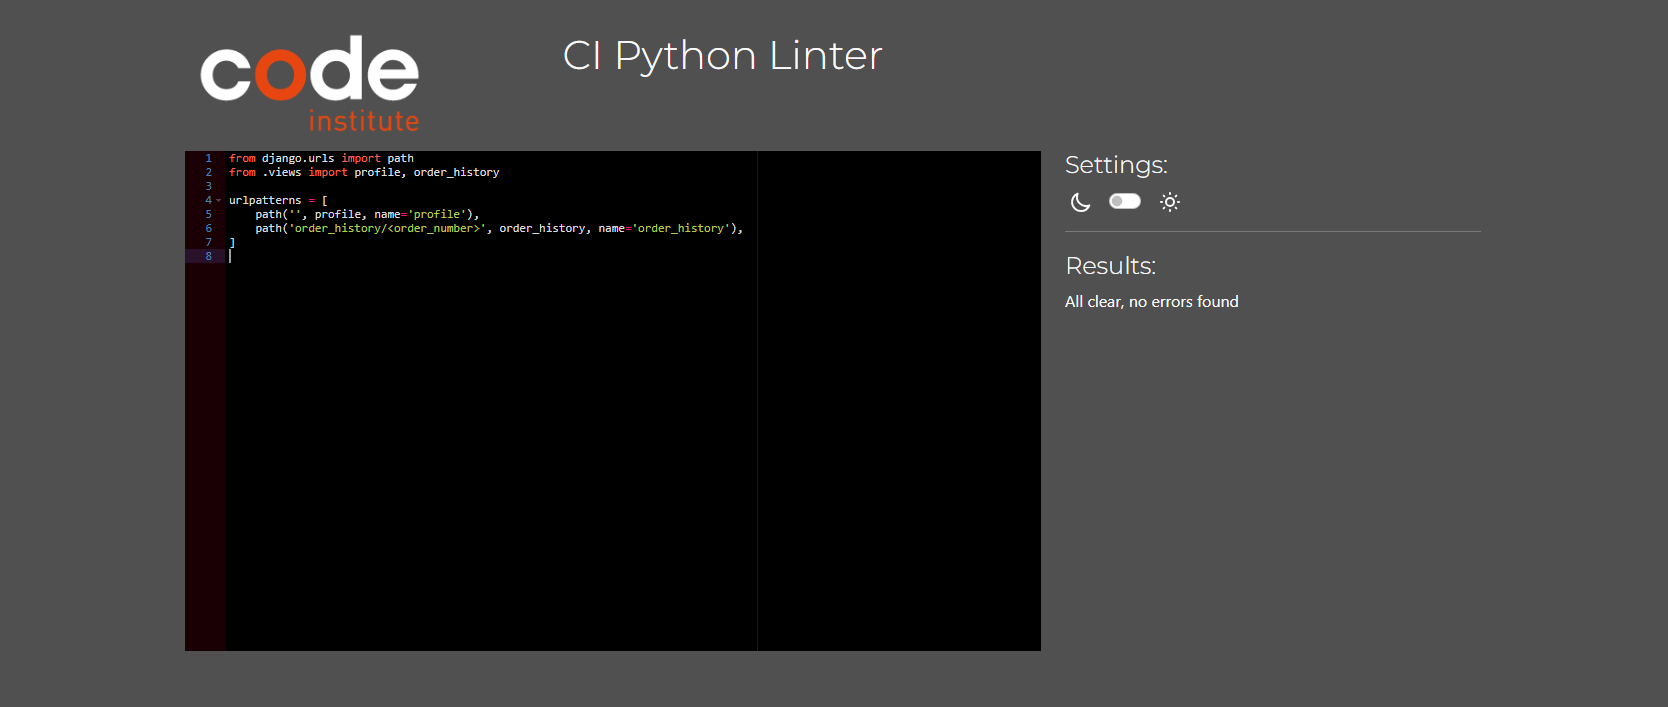
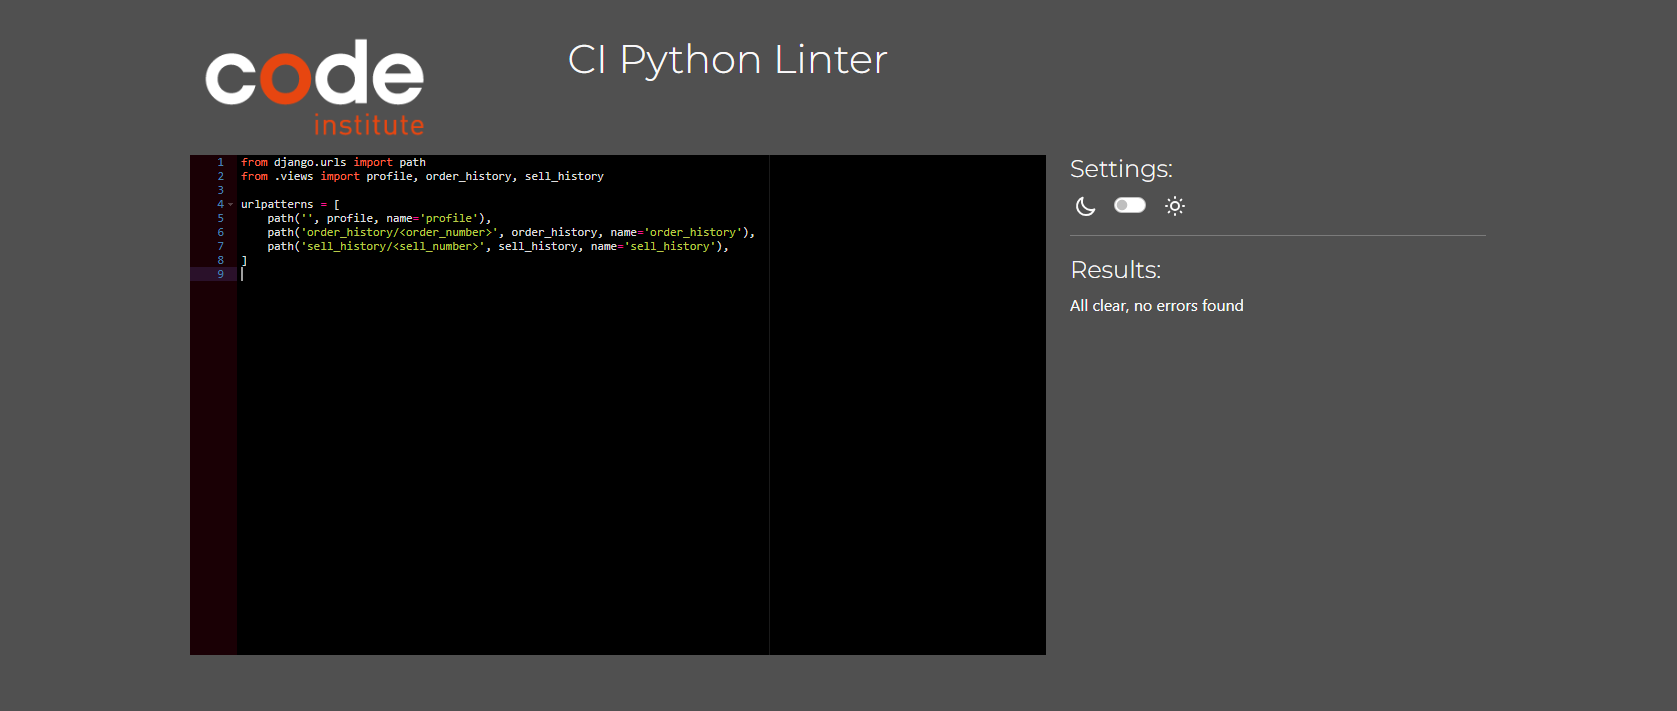
test: document result of validation and testing for sell pages

diff --git a/README_testing.md b/README_testing.md
@@ -42,6 +42,8 @@ All pages were tested in terms of responsivness to ensure that the conent reacts
 | R22 | Hidden Pages         | Extend the url and add /test in the end. Inspect the webpage via DevTools and listed devices. Test the side for responsiveness and look at the layout of the hidden pages                                                       | The content of the Hidden Pages  is readable and fully displayed                                                                                                                                                                                                                                           | PASS   |
 | R23 | About Page         | Go to About in Navigation Menu. Inspect the webpage via DevTools and listed devices. Test the side for responsiveness and look at the layout of text, image, button and review boxes.                                                       | The content of the page is center and displayed in a column on small devices. On large, the picture is shown next to the text. The boxes are in rows.                                                                                                                                                                                                                                           | PASS   |
 | R24 | Add Review Page         | Go to About in Navigation Menu and click on Send Review. Inspect the webpage via DevTools and listed devices. Test the side for responsiveness and look the review form                                                       | The form is centered and readable on all devices.                                                                                                                                                                                                                                           | PASS   |
+| R25 | Sell Toy Page         | Login. Go to Sell Toy in Navigation Menu. Inspect the webpage via DevTools and listed devices. Test the side for responsiveness and look the form                                                       | The form is centered and readable on all devices.                                                                                                                                                                                                                                           | PASS   |
+| R26 | Sell History - Statu Page         | Login. Go to My Profile. Click on an item in selling history.  Inspect the webpage via DevTools and listed devices. Test the side for responsiveness and look the image and text                                                      | On small devices, the content is centered in a column. On large devices, the text and image are displayed next to each other.                                                                                                                                                                                                                                          | PASS   |
 
 
 [Back to the content](#testing--validation)
@@ -81,8 +83,8 @@ The testing was grouped according to the epics to which user story belongs.
 | #17                            | Site User     | Have a personalized user profile                                   | View and update my personal information                                                                           | there is  a page with personal detail which I can update<br>only authorized user can view and update the personal information                                                                                                                                         | PASS   |
 | #24                            | Shopper       | have the possibility to save my delivery information when checkout | do not have to fill the information several times                                                                 | there is a check-box to save the information on the checkout page<br>there is a logic which works                                                                                                                                                                     | PASS   |
 | Sorting and Searching          |               |                                                                    |                                                                                                                   |                                                                                                                                                                                                                                                                       |
-| 10                             | Shopper       | Sort the list of available toys                                    | Easily identify the best priced toys, toys in the best quality and alphabetically sorted toys                     | the item in navigation menu works properly: by price, by quality, by category, by name                                                                                                                                                                                | PASS   |
-| 11                             | Shopper       | Sort a specific and multiple category of products                  | Find the best priced or best quality product in a specific category or sort the products in that category by name | there is dropdown to sort the toys accordingly<br>the fully functional logic has been created                                                                                                                                                                         | PASS   |
+| #18                             | Shopper       | Sort the list of available toys                                    | Easily identify the best priced toys, toys in the best quality and alphabetically sorted toys                     | the item in navigation menu works properly: by price, by quality, by category, by name                                                                                                                                                                                | NOT IMPLEMENTED - in a next iteration   |
+| #19                             | Shopper       | Sort a specific and multiple category of products                  | Find the best priced or best quality product in a specific category or sort the products in that category by name | there is dropdown to sort the toys accordingly<br>the fully functional logic has been created                                                                                                                                                                         | NOT IMPLEMENTED - in a next iteration   |
 | #20                            | Shopper       | Filter for specific toys categories                                | find easily what I search for                                                                                     |  there are toys categories in navigation menu<br> the fully functional logic has been created<br> toy categories are displayed in the search bar                                                                                                                      | PASS   |
 | #21                            | Shopper       | search for a product by name or description                        | find a specific product I would like to purchase                                                                  | there is a fully functional search input field<br>there is information on what have been searched/filtered for and number of results                                                                                                                                  | PASS   |
 | Purchasing and Checkout        |               |                                                                    |                                                                                                                   |
@@ -94,9 +96,10 @@ The testing was grouped according to the epics to which user story belongs.
 | #29                            | Shopper       | View shopping history                                              | see what I have purchase so far                                                                                   | in personal profile there is shopping history overview<br>each order can be view in details<br>users can access only their order history                                                                                                                              | PASS   |
 | #28                            | Shopper       | Receive an email confirmation after checking out                   | Keep the confirmation of what I have purchased for my records                                                     | shopper gets confirmation email                                                                                                                                                                                                                                       | PASS   |
 | Selling                        |               |                                                                    |                                                                                                                   |                                                                                                                                                                                                                                                                       |        |
-| 21                             | Seller        | provide all information abou toys                                  | easily sell toys                                                                                                  | there is a page with the  form to sell a toy<br>the page includes instructions as well                                                                                                                                                                                | PASS   |
-|                                | Seller        | request money                                                      | get money from the sold toy                                                                                       |                                                                                                                                                                                                                                                                       | PASS   |
-| 22                             | Seller        | have all the sell in my user profile                               | view sell history and the status of each sell                                                                     | there is a sell history in the profile<br>each sell can be viewed additionally                                                                                                                                                                                        | PASS   |
+| #30                            | Seller        | provide all information abou toys                                  | easily sell toys                                                                                                  | there is a page with the  form to sell a toy<br>the page includes instructions as well                                                                                                                                                                                | PASS   |
+| #32                               | Seller        | request money                                                      | get money from the sold toy                                                                                       | there is a button to request money if the toy is sold
+ <br>after request an confirmation is shown                                                                                                                                                                                                                                                                      | PASS - the request is done via email with the prefilled email and toy number   |
+| #31                             | Seller        | have all the sell in my user profile                               | view sell history and the status of each sell                                                                     | there is a sell history in the profile<br>each sell can be viewed additionally                                                                                                                                                                                        | PASS   |
 | Admin and Store Management     |               |                                                                    |                                                                                                                   |
 | #33                            | Store Owner   | add a toy                                                          | add new items to my store                                                                                         |  the app products/toys is setup<br> there is a page with form to add a new toy<br> the page is visible only for store owner                                                                                                                                           | PASS   |
 | #34                            | Store Owner   | edit/update toy details                                            | change toy prices, descriptions, images and other product criteria, including toy status                          | there is a page with the form to edit existing toys<br>there is a field to change the status - visible only for store owner<br>there is a link for each to to edit the information<br>the page can access only Site Owner                                             | PASS   |
@@ -109,7 +112,7 @@ The testing was grouped according to the epics to which user story belongs.
 | #37                            | Store Owner   | implement some SEO techniques                                      | increase the chance to purchase on my e-shop                                                                      | meta tags are fill out<br>sitemap is created<br>robots.txt is created                                                                                                                                                                                                 | PASS   |
 | #38                            | Site User     | see favicon in the browser tab                                     | easily find the e-shop                                                                                            | favicon is created<br>favicon is included                                                                                                                                                                                                                             | PASS   |
 | #39                            | Site User     | read about Terms & Conditions                                      | know what to except when selling the toys                                                                         | Terms & Conditions are created                                                                                                                                                                                                                                        | PASS   |
-| #39                            | Site User     | have the possibility to provide review                                      | support and make the e-shop more reliable                                                                         |  review app is set up<br>form to provide review is created<br>page with all proved reviews is displayed createdcreated                                                                                                                                                                                                                                        | PASS   |
+| #41                            | Site User     | have the possibility to provide review                                      | support and make the e-shop more reliable                                                                         |  review app is set up<br>form to provide review is created<br>page with all proved reviews is displayed createdcreated                                                                                                                                                                                                                                        | PASS   |
 
 
 [Back to the content](#testing--validation-report)
@@ -164,6 +167,9 @@ The features testing was also conducted group-wise. The outcome and testing step
 | F43 | Hidden Page - 403                         | Login as admin<br>Extend the url and add /toys/add                                                                                                                                                        | 403 Page is shon                                                                                                                                                                                                                                                                                       | PASS   |
 | F46 | About Page                         | Click on About in Navigation Menu<br>Continue by clicking on Provide Review                                                                                                                                                         | Page about is displayed<br>There are reviews on the page<br>User is redirected to the Review Form                                                                                                                                                                                                                                                                                       | PASS   |
 | F47 | About Page - Review                        | Continue from the previous About Page<br>Fill out the Form<br>Send the review form Review                                                                                                                                                         | Review form is send and user is informed about it by the message tost.                                                                                                                                                                                                                                                                                        | PASS   |
+| F48 | Sell Page - Link Information                        | Go to Sell Toy<br>Click on link Information in the text<br>                                                                                                                                                         | User is redirected on How it works page                                                                                                                                                                                                                                                                                       | PASS   |
+| F49 | Sell Page - Form                        | Login<br>Go to Sell Toy<br>Fill out the Form<br>Send the toy to be approved for eshop                                                                                                                                                          | The form is send and user is informed by the toys <br>Use is redirected on landing page                                                                                                                                                                                                                                                                                       | PASS   |
+| F50 | Sell Page - Toy Status                        | Continue from the previous Sell Page-Form<br>Go to your Profile Page<br>Click on one item in Selling History                                                                                                                                                           | A Page with a status of you sell request is shown.                                                                                                                                                                                                                                                                                      | PASS   |
 
 [Back to the content](#testing--validation)
 
@@ -219,6 +225,8 @@ The [Nu Html Checker](https://validator.w3.org/nu/) web-based tool by W3 was use
 | Review | Add Review Page | [Report](./docs/testing/html/html_review_add.PNG)| no errors |
 |  | About & Review Page | [Report](./docs/testing/html/html_review_about.PNG)| no errors |
 |  Contact | Contact Us Page | [Report](./docs/testing/html/html_contact.PNG)| no errors |
+|  Sell | Sell Toy Page | [Report](./docs/testing/html/html_sell.PNG)| no errors |
+|  | Sell History - Status | [Report](./docs/testing/html/html_sell_history.PNG)| no errors |
 
 
 [Back to the content](#testing--validation)
@@ -314,6 +322,8 @@ The chrome extension [WAVE Evaluation Tool](https://chromewebstore.google.com/de
 | Review Pages | Add Review Page         | <img src="./docs/testing/wave/wave_review_add.PNG" alt="wave_review_add" width="200"/> | no error |
 |  | About & Review Page         | <img src="./docs/testing/wave/wave_review_about.PNG" alt="wave_review_about" width="200"/> | no error |
 | Contact Pages  | Contact Us Page         | <img src="./docs/testing/wave/wave_contact.PNG" alt="wave_contact" width="200"/> | no error |
+|  Sell Pages| Sell Toy Page         | <img src="./docs/testing/wave/wave_sell.PNG" alt="wave_sell" width="200"/> | no error |
+|   | Sell History - Status Page         | <img src="./docs/testing/wave/wave_sell_history.PNG" alt="wave_sell_history" width="200"/> | no error |
 
 [Back to the content](#testing--validation)
 

diff --git a/README.md b/README.md
@@ -101,7 +101,10 @@ To plan all features and functionalities of the e-shop, the agile methodology wa
 
 <details>
 <summary>EPIC 7: Selling</summary>
--todo
+
+- [#30](https://github.com/brodsa/loopitoy/issues/30): As a Seller I want to provide all information about toys so that Site Owner can sell toys for me.
+- [#31](https://github.com/brodsa/loopitoy/issues/31): As a Seller I want to see all sells in my user profile so that I can view sell history and the status of each sell.
+- [#32](https://github.com/brodsa/loopitoy/issues/32): As a role I want to capability so that I can benefit.
 </details>
 
 
@@ -141,6 +144,7 @@ Wireframes were prepared for both mobile and desktop devices using balsamiqo pro
 | Profile Pages | <img src="./docs/ux/ux_wireframe_profile_mobile.PNG" alt="ux_profile_mobile" width="200"/> | <img src="./docs/ux/ux_wireframe_profile_desktop.PNG" alt="ux_profile_desktop" width="200"/> |
 | Contact Page | <img src="./docs/ux/ux_wireframe_contact_mobile.PNG" alt="ux_contact_mobile" width="200"/> | <img src="./docs/ux/ux_wireframe_contact_desktop.PNG" alt="ux_contact_desktop" width="200"/> |
 | Review Pages | <img src="./docs/ux/ux_wireframe_review_mobile.PNG" alt="ux_review_mobile" width="200"/> | <img src="./docs/ux/ux_wireframe_review_desktop.PNG" alt="ux_review_desktop" width="200"/> |
+| Sell Pages | <img src="./docs/ux/ux_wireframe_sell_mobile.PNG" alt="ux_sell_mobile" width="200"/> | <img src="./docs/ux/ux_wireframe_sell_desktop.PNG" alt="ux_sell_desktop" width="200"/> |
 
 
 ### Structure 
@@ -194,6 +198,7 @@ The sites of e-shop are categorized into several groups:
 - **Hidden Pages and Polices** include all error hidden pages and pages with various polices, terms and conditions.
 - **Review Pages** include pages related to providing and presenting customer feedback
 - **Contact Page** includes contacting form.
+- **Sell Pages** include a form to sell a toy and a page with the status.
 
 The entire web page is also designed to be responsive to ensure that the e-shop is properly displayed on different devices (e.g. a mobile, a desktop). The designed follows common best practice of e-shop development. Each site has mutual components, i.e. header with a navigation menu and footer. The mutual components ensure that the user to easily navigates through the content of the e-shop.
 
@@ -256,15 +261,25 @@ The core authentication pages includes:
 - **Add Review Page** presents review form to send user opinion. ![Add Review](./docs/features/feature_review_add.PNG)
 
 
-
 ### Contact Page
 - **Contact Us Page** serves for contacting Site Owner and it displays the contact form. After sending a message a thank you toast message is displayed. ![Contact](./docs/features/features_contact.PNG)
 
 
+### Sell Pages
+
+-**Sell Toy Page** displays the form to sell the toy. User has to provide information. The toy needs to be first approved in order to be send it to the platform. ![Sell Toy](./docs/features/feature_sell.PNG)
+-**Toy Status Page** shows the status of the toy that a user would like to sell. There 5 status that can be shown: 
+    - OPEN - Site Owner has to first approved it. 
+    - DECLAIM - the toy was not approved for e-shop. 
+    - E-SHOP - the toy is on e-sho and user has to wait till it is sold.
+    - SOLD - the toy was sold and user can request money.
+    - PAID - the money were paid for the toy. ![Status](./docs/features/feature_sell_history.PNG)
+
+
 ### Future & Left Features
-- Extending the Site Owner functionality through the e-shop, managing brands, categories, etc.
-- Inhancing Sell Features by including the form to request money. In the form, User can which toys he/she wants to pay. There should be probably a new app and model that stores such information and in addition the bank data to send money.
-- Implementation of sorting functionality.
+Two planned features related to sorting are going to be implemented in next iterations, see [#18](https://github.com/brodsa/loopitoy/issues/18) and  [#19](https://github.com/brodsa/loopitoy/issues/19). Future extentions of the e-shop includes:
+- Extending the Site Owner functionality directly on the e-shop by creating Manager board. Site owner could directly managing brands, received toys, categories, etc.
+- Inhancing Sell Features by including the form to request money. In the form, User can specifiy which toys he/she wants to be paid. There should be probably a new app and model that stores such information and in addition the bank data to send money.
 - Login with Social Media using allauth.cocialaccount and django.contrib.site apps
 - Unique Form Style and general refactoring to have all views defined as class-based view.
 
